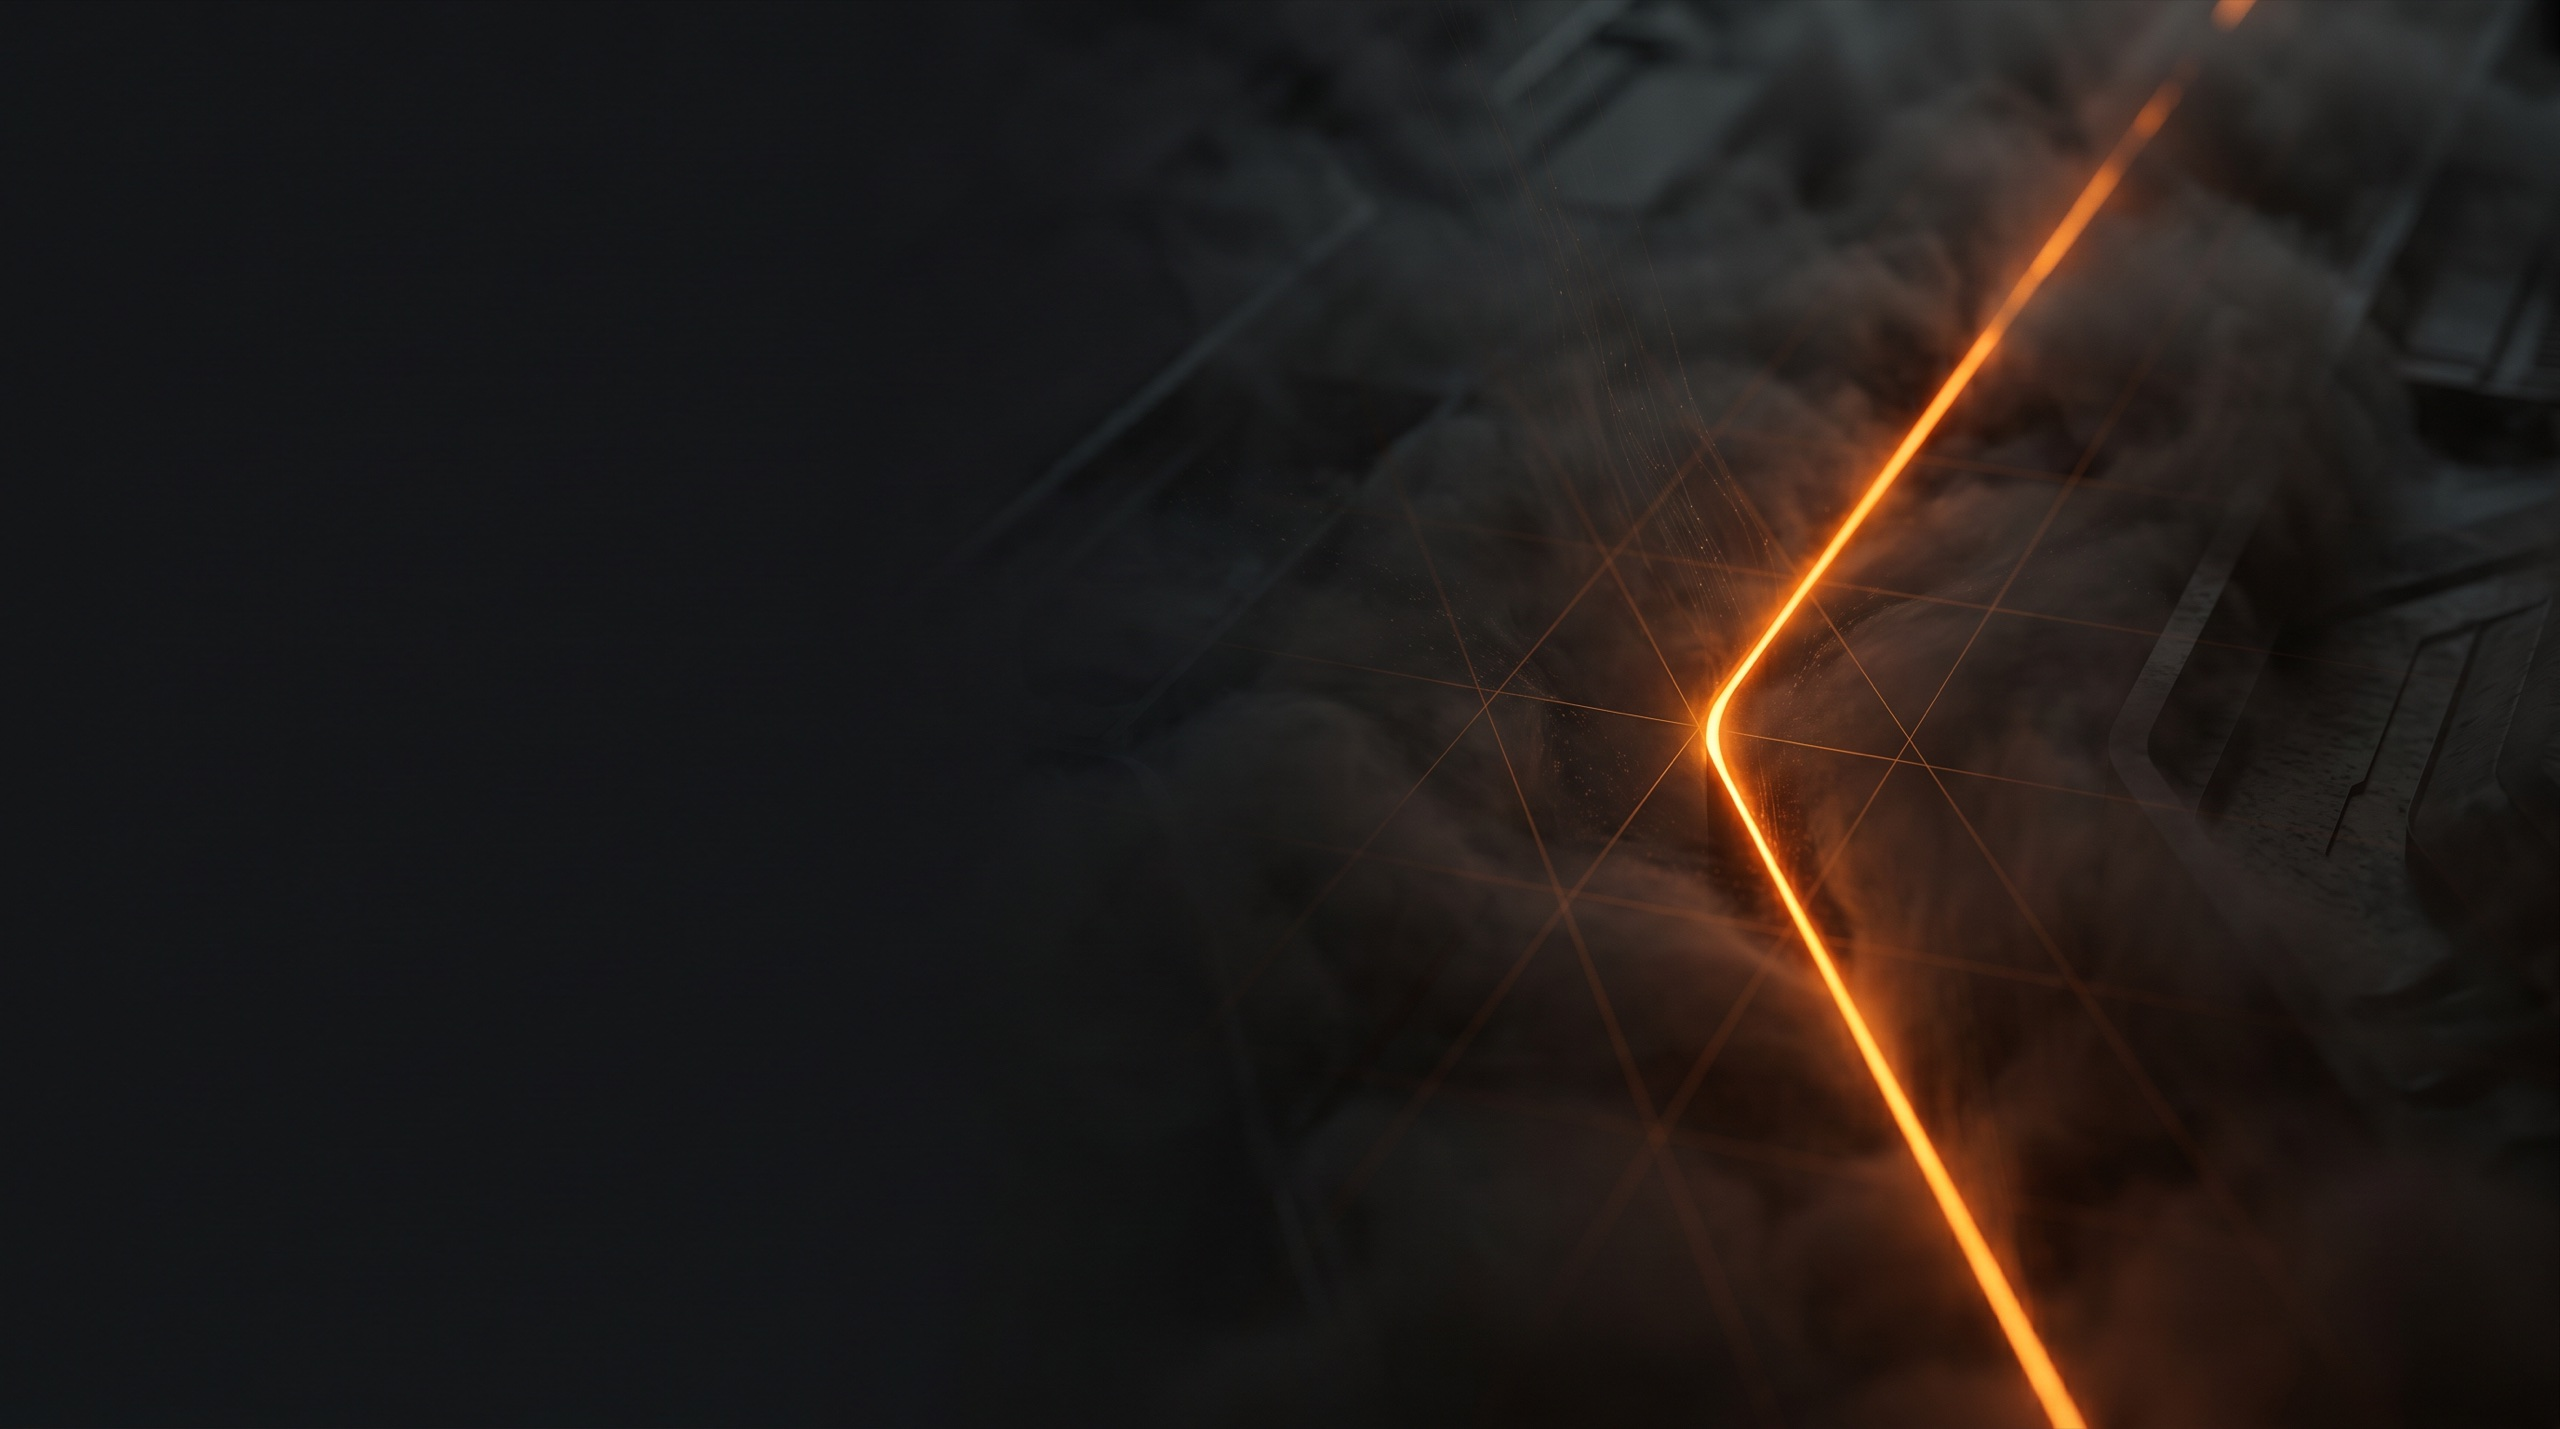
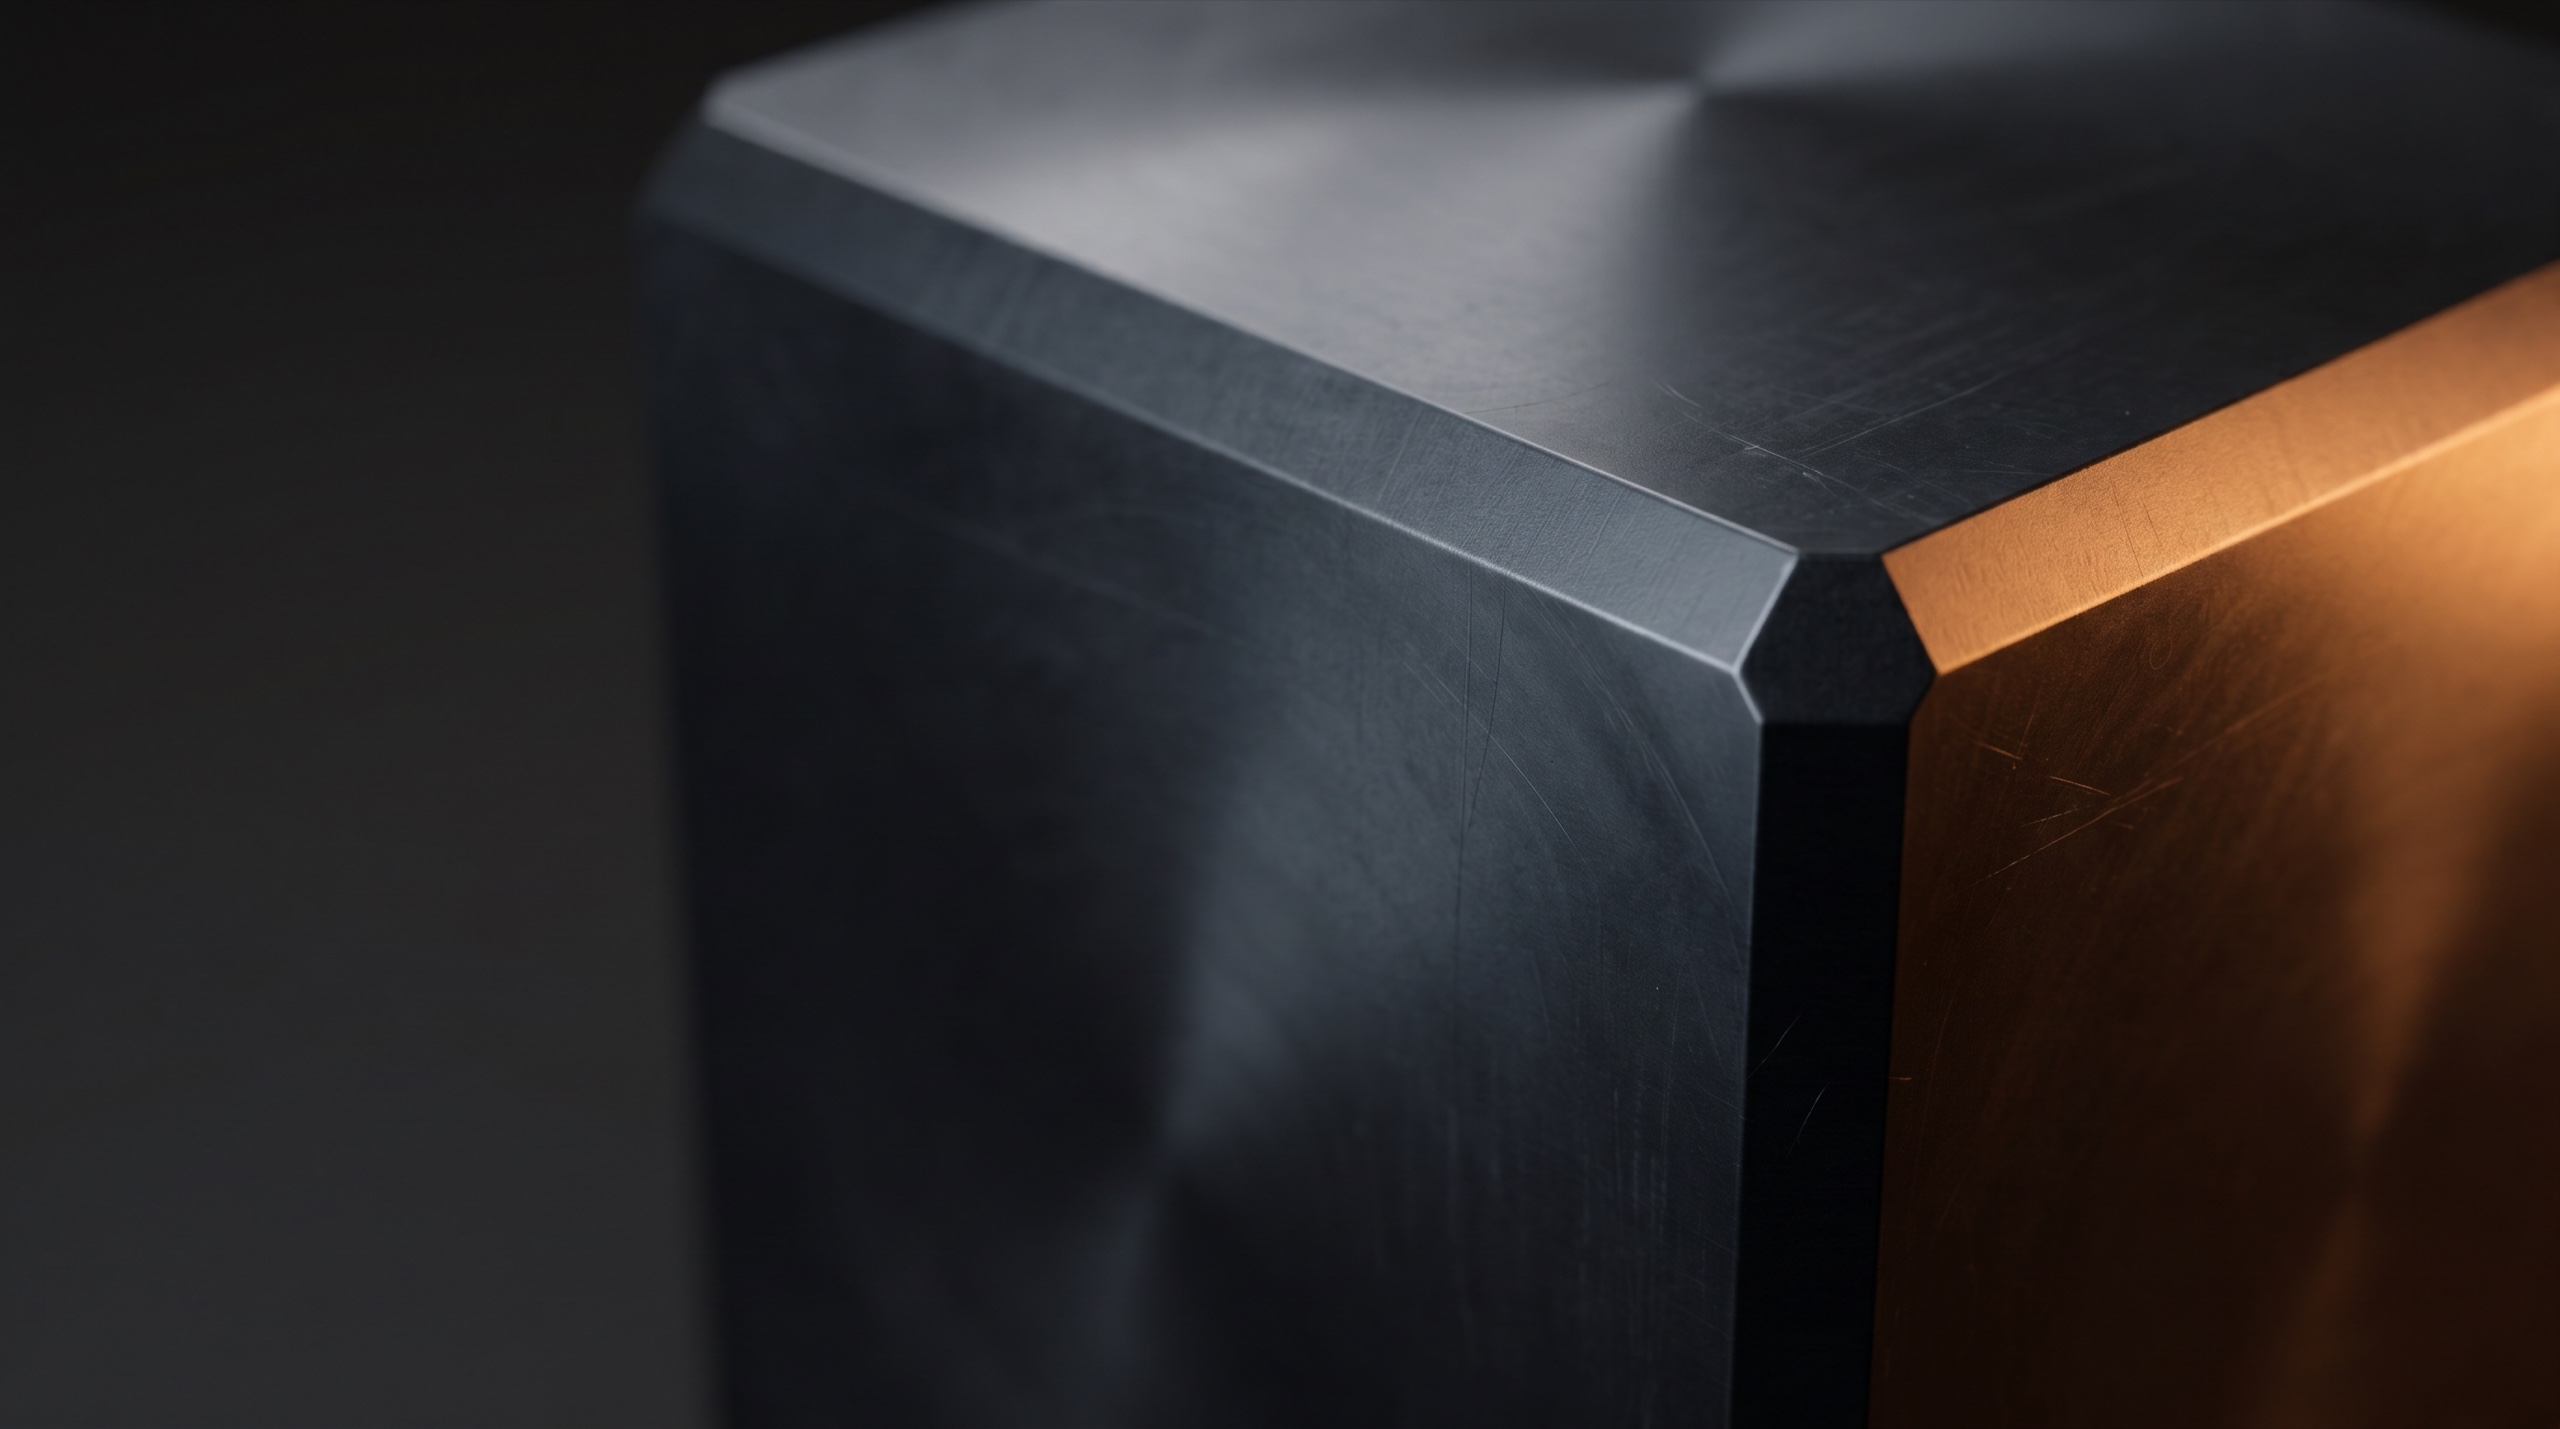
Make it more unique / less "AI-looking": real-material hero + de-templated copy
- Hero: replaced the abstract glowing-energy image (the classic AI-art tell)
  with a real machined-metal macro photograph — a chamfered block lit in amber
  against graphite. Grounded and tactile, not abstract.
- Copy: stripped the LLM-prose cadence (em-dash overuse, rule-of-three lists,
  balanced clauses), varied sentence rhythm, and added specificity and a point
  of view — kept the executive register. Touched hero, POV, about, capabilities,
  principles, flow, anatomy, contact, footer, and meta/OG/JSON-LD.
- Design, layout, and headline unchanged.

Claude-Session: https://claude.ai/code/session_01UzJo8JxKRQcVT4ocarR1sR

diff --git a/site/index.html b/site/index.html
@@ -5,7 +5,7 @@
 <meta name="viewport" content="width=device-width, initial-scale=1, viewport-fit=cover">
 
 <title>Driven Edge — Software, worked to an edge.</title>
-<meta name="description" content="Driven Edge is a technology and AI consultancy — strategy, engineering, and AI integration for modern software, built to be kept.">
+<meta name="description" content="Driven Edge is a technology and AI consultancy. We help organizations build modern software and put AI to work, accountable long after launch.">
 <link rel="canonical" href="https://drivenedge.net/">
 <meta name="theme-color" content="#16130F">
 <meta name="color-scheme" content="light">
@@ -20,7 +20,7 @@
 <meta property="og:locale" content="en_US">
 <meta property="og:url" content="https://drivenedge.net/">
 <meta property="og:title" content="Driven Edge — Software, worked to an edge.">
-<meta property="og:description" content="Driven Edge is a technology and AI consultancy — strategy, engineering, and AI integration, built to be kept.">
+<meta property="og:description" content="Driven Edge is a technology and AI consultancy. We build modern software and put AI to work, accountable long after launch.">
 <meta property="og:image" content="https://drivenedge.net/og.jpg">
 <meta property="og:image:width" content="1200">
 <meta property="og:image:height" content="630">
@@ -29,7 +29,7 @@
 <!-- Twitter -->
 <meta name="twitter:card" content="summary_large_image">
 <meta name="twitter:title" content="Driven Edge — Software, worked to an edge.">
-<meta name="twitter:description" content="Driven Edge is a technology and AI consultancy — strategy, engineering, and AI integration, built to be kept.">
+<meta name="twitter:description" content="Driven Edge is a technology and AI consultancy. We build modern software and put AI to work, accountable long after launch.">
 <meta name="twitter:image" content="https://drivenedge.net/og.jpg">
 <meta name="twitter:image:alt" content="Driven Edge — software, worked to an edge.">
 
@@ -62,7 +62,7 @@
   "logo": "https://drivenedge.net/apple-touch-icon.png",
   "image": "https://drivenedge.net/og.jpg",
   "email": "[email redacted]",
-  "description": "Driven Edge is a technology and AI consultancy — strategy, engineering, and AI integration for modern software, built to be kept.",
+  "description": "Driven Edge is a technology and AI consultancy. We help organizations build modern software and put AI to work, accountable long after launch.",
   "slogan": "Software, worked to an edge.",
   "knowsAbout": ["Technology consulting", "AI consulting", "AI integration", "AI as a service", "Intelligent automation", "Software engineering", "Data platforms", "Cloud infrastructure"],
   "contactPoint": {
@@ -114,7 +114,7 @@
   <section class="hero hero--cinematic" aria-labelledby="hero-title">
     <img class="hero__bg" src="assets/img/hero.jpg"
          srcset="assets/img/hero-mobile.jpg 1280w, assets/img/hero.jpg 2560w" sizes="100vw"
-         alt="A luminous amber edge of light tracing through a dark graphite lattice — software, worked to an edge."
+         alt="A precision-machined metal block with a chamfered edge lit in warm amber against deep graphite. Software, worked to an edge."
          width="2560" height="1429" fetchpriority="high" decoding="async">
     <div class="hero__scrim" aria-hidden="true"></div>
     <span class="hero__frame" aria-hidden="true"></span>
@@ -129,7 +129,7 @@
         <p class="kicker" data-reveal><span class="pip" aria-hidden="true"></span><span class="idx">00</span>&nbsp;/&nbsp;Overview</p>
         <h1 id="hero-title" data-reveal>We build software <span class="ink">worth keeping.</span></h1>
         <p class="hero__readout" data-reveal>Advise&nbsp;·&nbsp;Build&nbsp;·&nbsp;Operate</p>
-        <p class="hero__lead" data-reveal>A technology and AI consultancy. We advise, build, and run modern software and AI — accountable for the outcome long after launch.</p>
+        <p class="hero__lead" data-reveal>A technology and AI consultancy. We help organizations build modern software and put AI to work, and we answer for how it performs once it ships.</p>
         <div class="hero__cta" data-reveal>
           <a class="btn btn--primary" href="mailto:[email redacted]">Get in touch <span class="arrow" aria-hidden="true">→</span></a>
           <a class="btn btn--ghost" href="#capabilities">What we do</a>
@@ -162,7 +162,7 @@
     <div class="container">
       <div class="pov__inner" data-reveal>
         <p class="kicker"><span class="pip" aria-hidden="true"></span>What we believe</p>
-        <p class="pov__statement" id="pov-title">Most software is built to ship and abandoned at launch. We build it to be <span class="ink">kept</span> — designed to earn its place, engineered to endure, and stewarded long after delivery.</p>
+        <p class="pov__statement" id="pov-title">Most software is built to ship, then forgotten the day it goes live. We build the kind worth <span class="ink">keeping</span>: software that still earns its place years later, with someone still standing behind it.</p>
         <p class="pov__sub">Worth keeping is the only standard that matters.</p>
       </div>
     </div>
@@ -179,9 +179,9 @@
 
       <div class="about-grid">
         <div class="body-col" data-reveal>
-          <h2 id="about-title">Built around the work — accountable for the outcome.</h2>
-          <p>Driven Edge is a technology and AI consultancy. We partner with organizations from strategy through execution — advising on what to build, engineering it to perform under real conditions, and evolving it as the landscape shifts. The name is the posture: <strong>Driven</strong> is the standard we hold the work to; <strong>edge</strong> is the advantage of work done with rigor and care.</p>
-          <p>We engage in senior teams, close to the problem and accountable for the result. The people who design and build the work are the people who answer for it — no handoff to a thinner bench once the engagement begins. That continuity is the point: software worth keeping is software someone is still standing behind.</p>
+          <h2 id="about-title">Built around the work. Accountable for the outcome.</h2>
+          <p>Driven Edge is a technology and AI consultancy. We work with organizations from the first strategy call to the systems running in production. Some engagements are pure advisory. Most are hands-on: we build the thing, then keep it sharp as the ground shifts. The name is the posture. <strong>Driven</strong> is the standard we hold the work to. <strong>Edge</strong> is what you get when it's done with rigor and care.</p>
+          <p>We work in senior teams, close to the problem. The people who design and build the work are the people who answer for it. There is no handoff to a junior bench once the engagement starts. That continuity is the whole point. Software worth keeping is software someone is still standing behind.</p>
         </div>
 
         <aside class="spec-panel tick" aria-label="Company at a glance">
@@ -205,14 +205,14 @@
         <span class="section__label" id="capabilities-title">What we do</span>
         <span class="section__meta">Strategy · Engineering · AI</span>
       </div>
-      <p class="cap-intro" data-reveal>From strategy and AI advisory through engineering and operations — engaged as advisors, as builders, or as one accountable partner end to end.</p>
+      <p class="cap-intro" data-reveal>Strategy, engineering, and the systems underneath. Bring us in to advise, to build, or to run the whole engagement end to end.</p>
       <div class="cap-grid tick" data-reveal>
-        <article class="cap"><p class="idx">C-01</p><h3>Technology &amp; AI Strategy</h3><p>Where to invest, what to build, and where AI creates real advantage — and where it doesn't.</p></article>
-        <article class="cap"><p class="idx">C-02</p><h3>Software Engineering &amp; Product</h3><p>We design and engineer software end to end — intuitive to use and built to perform under real load and change.</p></article>
-        <article class="cap"><p class="idx">C-03</p><h3>AI Integration</h3><p>We embed modern AI into the systems, workflows, and operations where it moves outcomes — not as a bolt-on.</p></article>
-        <article class="cap"><p class="idx">C-04</p><h3>AI as a Service &amp; Agents</h3><p>Models, retrieval, copilots, and autonomous agents — delivered as governed, managed services your organization can build on.</p></article>
-        <article class="cap"><p class="idx">C-05</p><h3>Data &amp; Platforms</h3><p>The data foundations and platforms modern software and AI depend on to scale.</p></article>
-        <article class="cap"><p class="idx">C-06</p><h3>Reliability, Security &amp; Governance</h3><p>Resilience, security, and AI governance engineered in — so what we deliver stays trustworthy at scale.</p></article>
+        <article class="cap"><p class="idx">C-01</p><h3>Technology &amp; AI Strategy</h3><p>Where to invest, what to build, and an honest read on where AI earns its keep and where it's just hype.</p></article>
+        <article class="cap"><p class="idx">C-02</p><h3>Software Engineering &amp; Product</h3><p>We design and engineer software end to end. The kind that's easy to use and holds up under real load and real change.</p></article>
+        <article class="cap"><p class="idx">C-03</p><h3>AI Integration</h3><p>We put AI inside the systems and workflows you already run, in the places it actually moves the needle. No bolt-ons.</p></article>
+        <article class="cap"><p class="idx">C-04</p><h3>AI as a Service &amp; Agents</h3><p>Models, retrieval, copilots, and agents, delivered as managed services your teams can build on without standing up the plumbing themselves.</p></article>
+        <article class="cap"><p class="idx">C-05</p><h3>Data &amp; Platforms</h3><p>The data and platform foundations that modern software and AI run on.</p></article>
+        <article class="cap"><p class="idx">C-06</p><h3>Reliability, Security &amp; Governance</h3><p>Resilience, security, and AI governance built in from day one, so what ships stays trustworthy at scale.</p></article>
       </div>
     </div>
   </section>
@@ -236,7 +236,7 @@
         </div>
         <div class="flow__loop">
           <span class="ico" aria-hidden="true">&#8635;</span>
-          <p><strong>Built to be kept</strong> — the work doesn't end at launch. We stay accountable, hardening and evolving it as the landscape shifts.</p>
+          <p><strong>Built to be kept.</strong> The work doesn't stop at launch. We stay on it, hardening and evolving the system as things change.</p>
         </div>
       </div>
 
@@ -246,17 +246,17 @@
         <article class="cell">
           <p class="idx">P-01</p>
           <h3>Start with why it should exist</h3>
-          <p>Every engagement begins with a clear problem and a point of view on the outcome — we don't build for its own sake.</p>
+          <p>Every engagement starts from a real problem and a clear view of the outcome. We don't build for its own sake.</p>
         </article>
         <article class="cell">
           <p class="idx">P-02</p>
           <h3>The invisible work is the work</h3>
-          <p>Reliability, performance, and security aren't a final phase — they're most of the work, and we engineer them in from the start.</p>
+          <p>Reliability, performance, and security aren't a phase at the end. They're most of the work, and we build them in from day one.</p>
         </article>
         <article class="cell">
           <p class="idx">P-03</p>
           <h3>Get out of the way</h3>
-          <p>The best software is quiet. We favor restraint, clarity, and systems that feel obvious the moment you use them.</p>
+          <p>The best software is quiet. It gets out of your way and feels obvious the first time you use it.</p>
         </article>
       </div>
     </div>
@@ -270,21 +270,21 @@
         <span class="section__label" id="build-title">How we build</span>
         <span class="section__meta">Anatomy of a system</span>
       </div>
-      <p class="cap-intro" data-reveal>Serious software is layered. We architect every level — from the surface people touch to the infrastructure beneath — with reliability, security, and stewardship running through all of them.</p>
+      <p class="cap-intro" data-reveal>Serious software is layered. We design every level, from the surface people touch down to the infrastructure beneath it. Reliability, security, and stewardship run through all of it.</p>
 
       <div class="stack" data-reveal aria-label="The layers of a system, with reliability and security spanning every layer">
         <div class="stack__main">
-          <div class="layer"><span class="n">L1</span><span class="layer__name">Experience</span><span class="layer__desc">Interfaces and product surface — what people actually touch.</span></div>
+          <div class="layer"><span class="n">L1</span><span class="layer__name">Experience</span><span class="layer__desc">Interfaces and product surface, the part people actually touch.</span></div>
           <div class="layer"><span class="n">L2</span><span class="layer__name">Application</span><span class="layer__desc">Services and logic that make the product do its job.</span></div>
           <div class="layer"><span class="n">L3</span><span class="layer__name">Platform</span><span class="layer__desc">Shared capabilities, APIs, and tooling the product is built on.</span></div>
-          <div class="layer"><span class="n">L4</span><span class="layer__name">Data &amp; Intelligence</span><span class="layer__desc">Pipelines, models, and applied AI — where they earn their place.</span></div>
+          <div class="layer"><span class="n">L4</span><span class="layer__name">Data &amp; Intelligence</span><span class="layer__desc">Pipelines, models, and applied AI, used where they earn their place.</span></div>
           <div class="layer"><span class="n">L5</span><span class="layer__name">Infrastructure</span><span class="layer__desc">Compute, networking, and delivery underneath it all.</span></div>
         </div>
         <div class="stack__rail"><span class="rl">Reliability &amp; Security</span></div>
       </div>
       <div class="stack__base" data-reveal>
         <span class="n" aria-hidden="true">&#8635;</span>
-        <p><strong>Stewardship</strong> — every layer is operated, hardened, and evolved long after launch.</p>
+        <p><strong>Stewardship.</strong> Every layer kept running and current long after launch.</p>
       </div>
     </div>
   </section>
@@ -297,7 +297,7 @@
           <p class="kicker"><span class="idx">05</span>&nbsp;/&nbsp;Contact</p>
           <h2 id="contact-title">Tell us what you're building.</h2>
           <p class="contact__readout"><a href="mailto:[email redacted]">[email redacted]</a></p>
-          <p class="note">Bring us a goal, a problem, or a system that needs to move forward. We read every message and we'll respond.</p>
+          <p class="note">Tell us what you're trying to do, or what's stuck. We read every message, and we answer.</p>
           <div class="contact__cta">
             <a class="btn btn--primary" href="mailto:[email redacted]">Get in touch <span class="arrow" aria-hidden="true">→</span></a>
           </div>
@@ -319,7 +319,7 @@
           </svg>
           <span>Driven Edge</span>
         </a>
-        <p class="footer-legal"><strong>Driven Edge</strong> is a technology and AI consultancy — we advise, build, and run modern software and AI, accountable for the outcome long after launch. &rarr; <a href="mailto:[email redacted]">[email redacted]</a></p>
+        <p class="footer-legal"><strong>Driven Edge</strong> is a technology and AI consultancy. We help organizations build modern software and put AI to work, and we answer for how it performs long after launch. &rarr; <a href="mailto:[email redacted]">[email redacted]</a></p>
       </div>
 
       <nav class="footer-nav" aria-label="Footer">